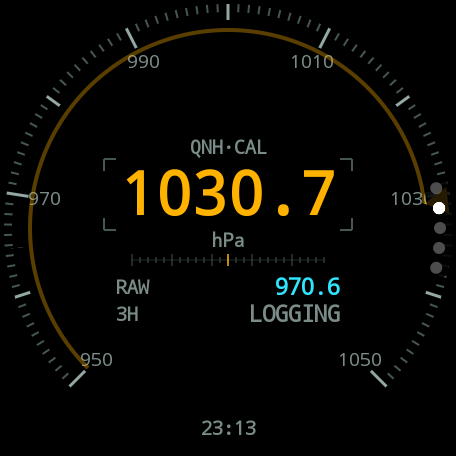
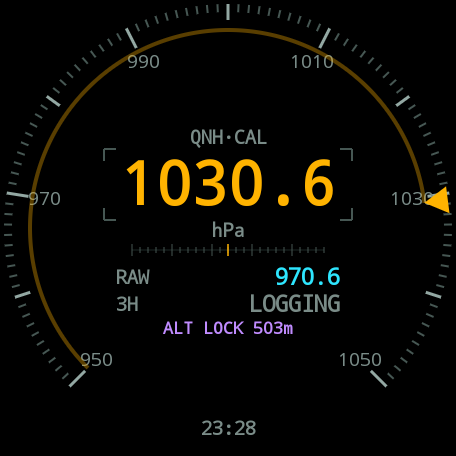
Auto-hide page indicator so it doesn't cover the gauges
The vertical page indicator sat on top of the bezel scales and hid the
QNH pointer on the barometer page. It now shows while paging (crown or
touch) and fades out 1.5 s after the pager settles.

Claude-Session: https://claude.ai/code/session_011HoRUgCntZMrsbu5GUKuhD

diff --git a/app/src/main/java/app/altikit/ui/Pages.kt b/app/src/main/java/app/altikit/ui/Pages.kt
@@ -2,6 +2,8 @@ package app.altikit.ui
 
 import android.graphics.Paint
 import android.graphics.Typeface
+import androidx.compose.animation.core.animateFloatAsState
+import androidx.compose.animation.core.tween
 import androidx.compose.foundation.Canvas
 import androidx.compose.foundation.background
 import androidx.compose.foundation.clickable
@@ -24,12 +26,15 @@ import androidx.compose.runtime.LaunchedEffect
 import androidx.compose.runtime.getValue
 import androidx.compose.runtime.mutableIntStateOf
 import androidx.compose.runtime.mutableLongStateOf
+import androidx.compose.runtime.mutableStateOf
 import androidx.compose.runtime.remember
 import androidx.compose.runtime.saveable.rememberSaveable
 import androidx.compose.runtime.setValue
+import androidx.compose.runtime.snapshotFlow
 import androidx.compose.ui.Alignment
 import androidx.compose.ui.Modifier
 import androidx.compose.ui.draw.drawBehind
+import androidx.compose.ui.graphics.graphicsLayer
 import androidx.compose.ui.geometry.Offset
 import androidx.compose.ui.graphics.Color
 import androidx.compose.ui.graphics.Path
@@ -46,10 +51,12 @@ import app.altikit.core.Mode
 import app.altikit.core.Tendency
 import app.altikit.core.Units
 import kotlinx.coroutines.delay
+import kotlinx.coroutines.flow.collectLatest
 import kotlin.math.abs
 import kotlin.math.roundToLong
 
 private const val PAGES = 5
+private const val INDICATOR_HIDE_MS = 1_500L
 
 @Composable
 fun MainPager(state: UiState, vm: MainViewModel, onNav: (String) -> Unit) {
@@ -73,7 +80,26 @@ fun MainPager(state: UiState, vm: MainViewModel, onNav: (String) -> Unit) {
                 }
             }
         }
-        VerticalPageIndicator(pagerState = pager, modifier = Modifier.align(Alignment.CenterEnd))
+        // The dots sit over the bezel scales, so only show them while paging and briefly after.
+        var showIndicator by remember { mutableStateOf(true) }
+        LaunchedEffect(pager) {
+            snapshotFlow { pager.isScrollInProgress to pager.currentPage }.collectLatest { (scrolling, _) ->
+                showIndicator = true
+                if (!scrolling) {
+                    delay(INDICATOR_HIDE_MS)
+                    showIndicator = false
+                }
+            }
+        }
+        val indicatorAlpha by animateFloatAsState(
+            targetValue = if (showIndicator) 1f else 0f,
+            animationSpec = tween(if (showIndicator) 150 else 400),
+            label = "indicatorAlpha",
+        )
+        VerticalPageIndicator(
+            pagerState = pager,
+            modifier = Modifier.align(Alignment.CenterEnd).graphicsLayer { alpha = indicatorAlpha },
+        )
         // Clock sits in the dial's bottom gap so it never covers the 12 o'clock index.
         BottomClock(Modifier.align(Alignment.BottomCenter).padding(bottom = 8.dp))
         if (!state.sensorOk) {
